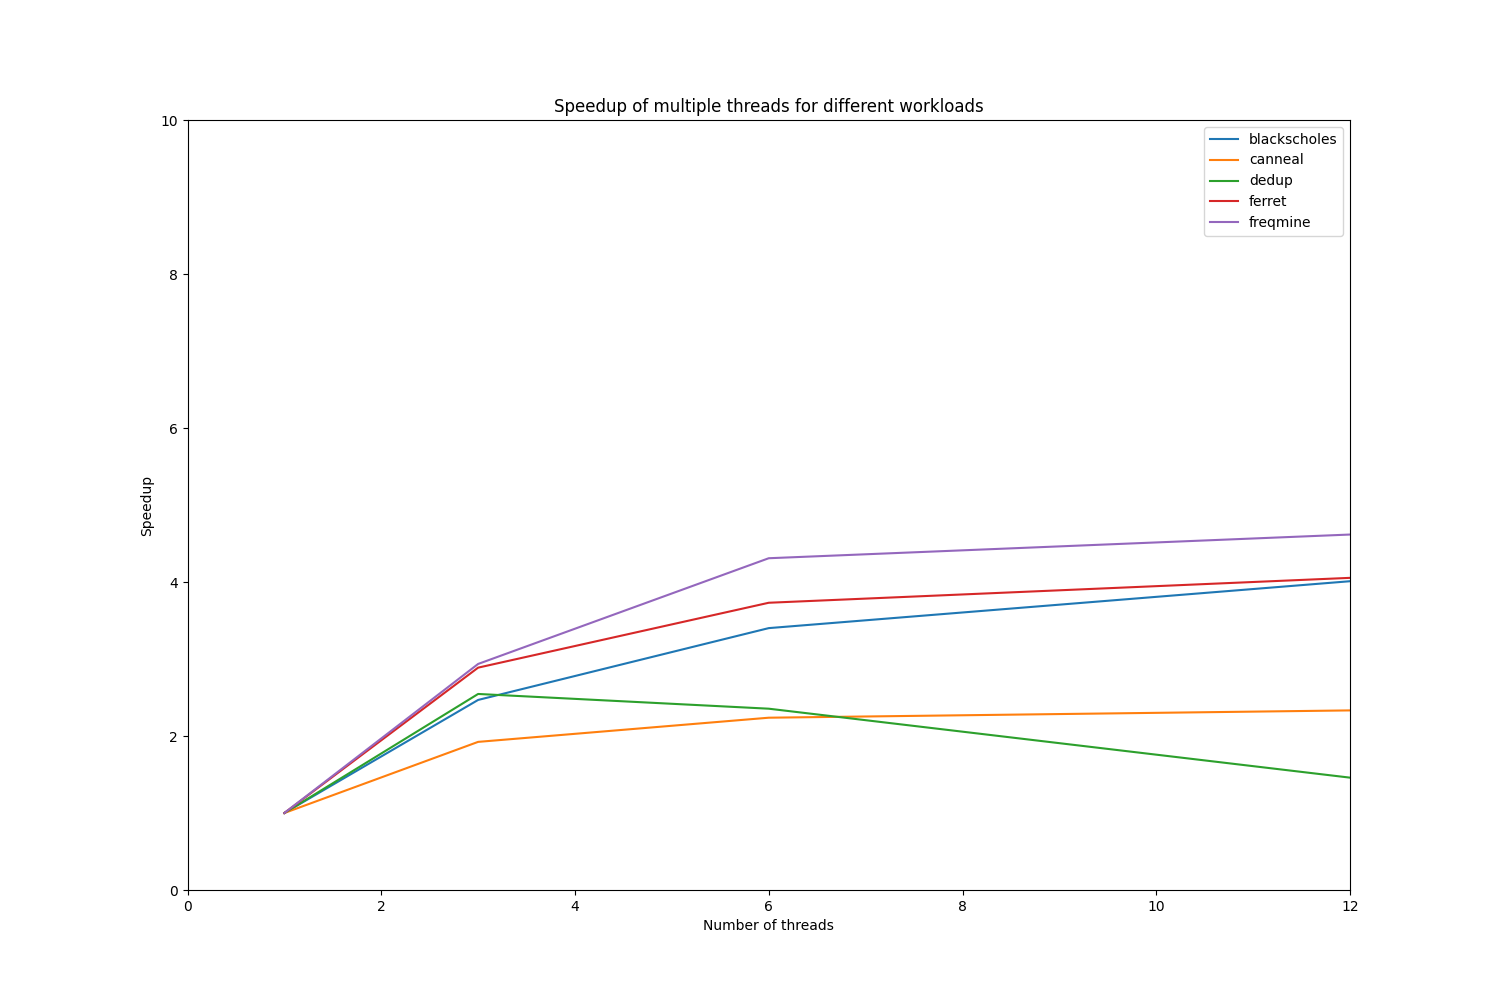
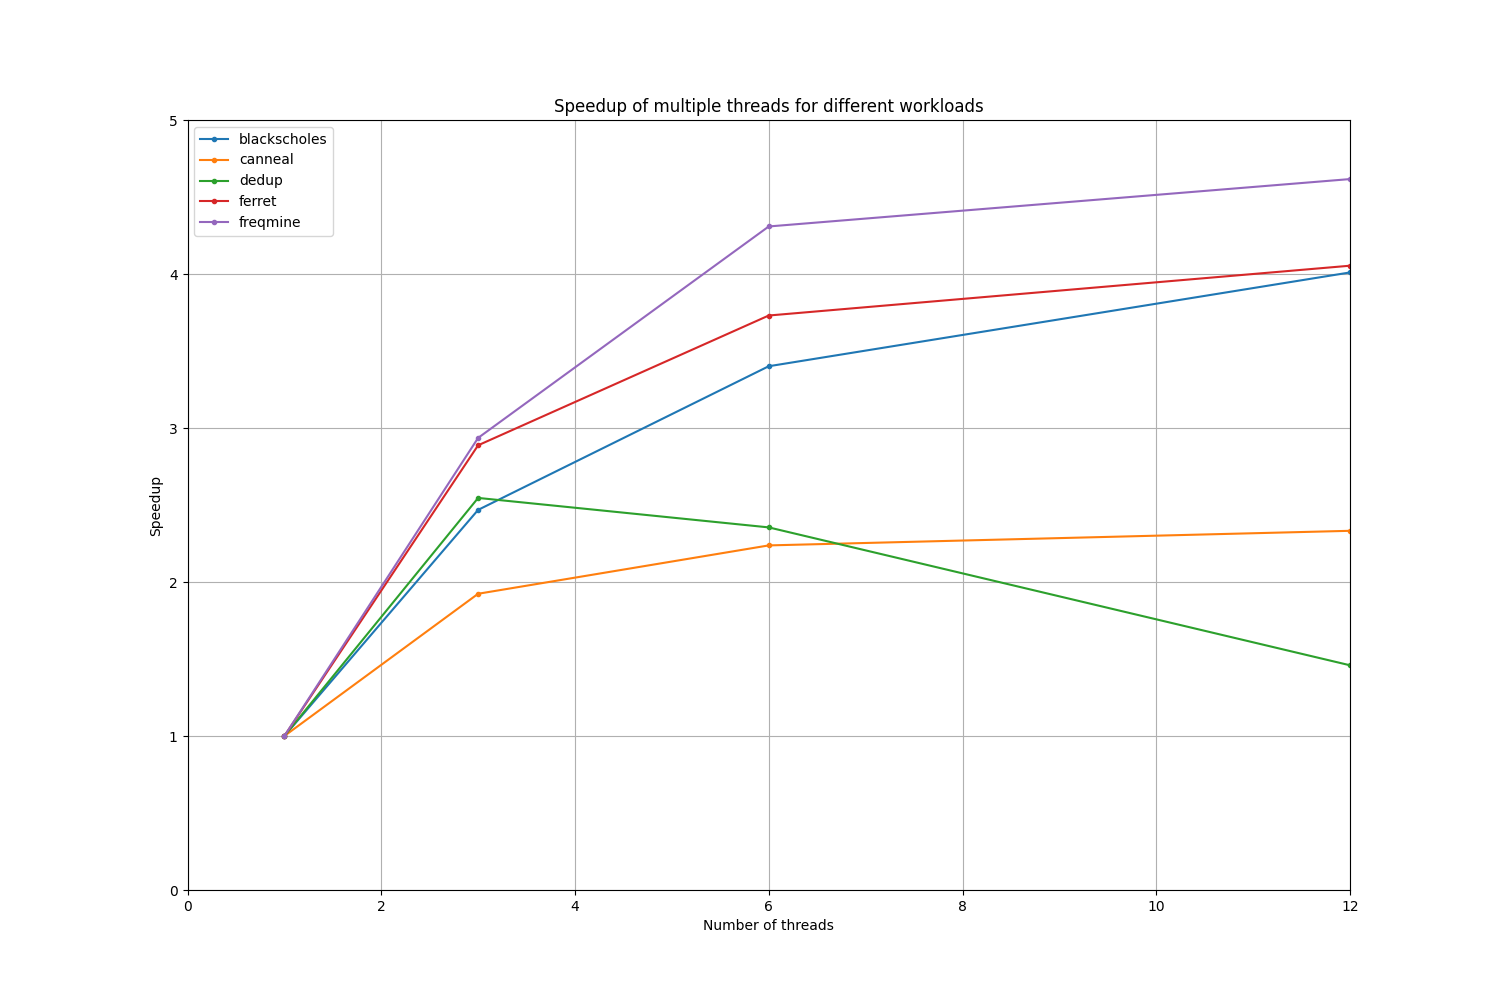
added grid

diff --git a/graphs/part2.py b/graphs/part2.py
@@ -15,7 +15,7 @@ import numpy as np
 import matplotlib.pyplot as plt
 import re
 
-from matplotlib import pylab
+from matplotlib import markers, pylab
 
 
 def comma(inputs):
@@ -43,12 +43,12 @@ for i in range(len(y)):
 # Plot error bar
 plt.figure(figsize=(15, 10))
 
-plt.plot(x, y[0], label="blackscholes")
-plt.plot(x, y[1], label="canneal")
-plt.plot(x, y[2], label="dedup")
-plt.plot(x, y[3], label="ferret")
+plt.plot(x, y[0], label="blackscholes", marker=".")
+plt.plot(x, y[1], label="canneal", marker=".")
+plt.plot(x, y[2], label="dedup", marker=".")
+plt.plot(x, y[3], label="ferret", marker=".")
 #plt.plot(x[0], y[4], label="fft")
-plt.plot(x, y[5], label="freqmine")
+plt.plot(x, y[5], label="freqmine", marker=".")
 
 # exercise 1d)
 #plt.axhline(y = 1500, color = 'r', linestyle = '-')
@@ -57,9 +57,10 @@ plt.plot(x, y[5], label="freqmine")
 plt.xlabel("Number of threads")
 plt.ylabel("Speedup")
 plt.xlim(0, 12)
-plt.ylim(0, 10)
+plt.ylim(0, 5)
 plt.title("Speedup of multiple threads for different workloads")
-plt.legend(loc="upper right")
+plt.legend(loc="upper left")
+plt.grid()
 
 print(y)
 # Display graph

diff --git a/graphs/main.py b/graphs/main.py
@@ -98,8 +98,8 @@ plt.errorbar(x1[5], y1[5], xerr=x1_err[5], yerr=y1_err[5], label="ibench-llc", c
 plt.errorbar(x1[6], y1[6], xerr=x1_err[6], yerr=y1_err[6], label="ibench-membw", capsize=2)
 
 # exercise 1d)
-#plt.axhline(y = 1.5, color = 'r', linestyle = '-')
-#plt.axvline(x = 65000, color = 'r', linestyle = '-')
+plt.axhline(y = 1.5, color = 'r', linestyle = '-')
+plt.axvline(x = 65000, color = 'r', linestyle = '-')
 
 plt.xlabel("Queries per second [QPS]")
 plt.ylabel("95th percentile latency [ms]")
@@ -108,6 +108,7 @@ plt.xticks([0, 10000, 20000, 30000, 40000, 50000, 60000, 70000, 80000], ['0', '1
 plt.ylim(0, 10)
 plt.title("Performance for different iBench sources of interference")
 plt.legend(loc="upper right")
+plt.grid()
 
 # Display graph
 
